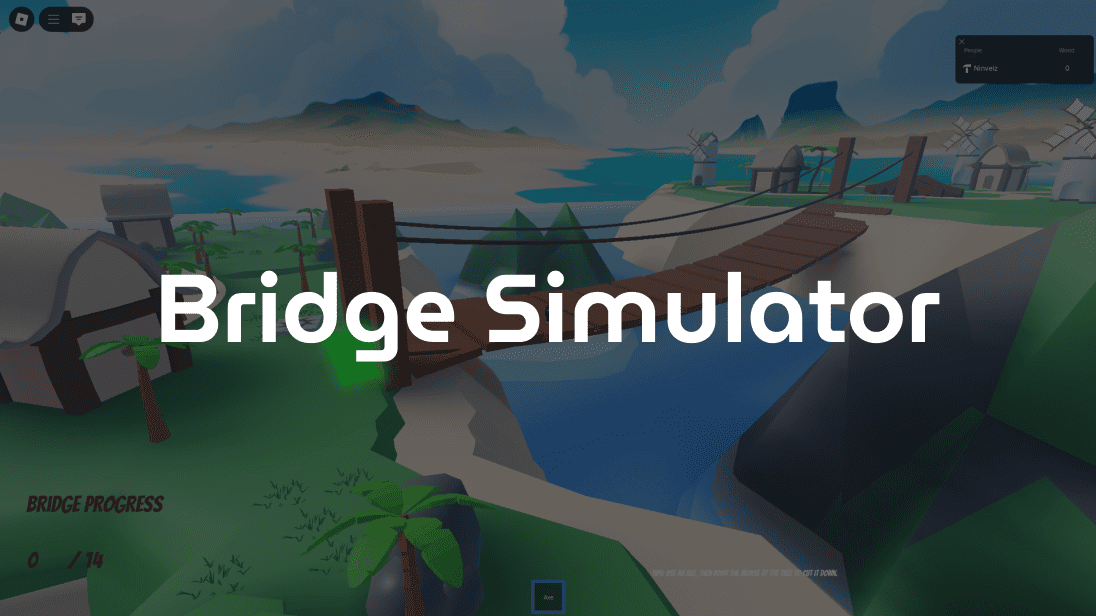
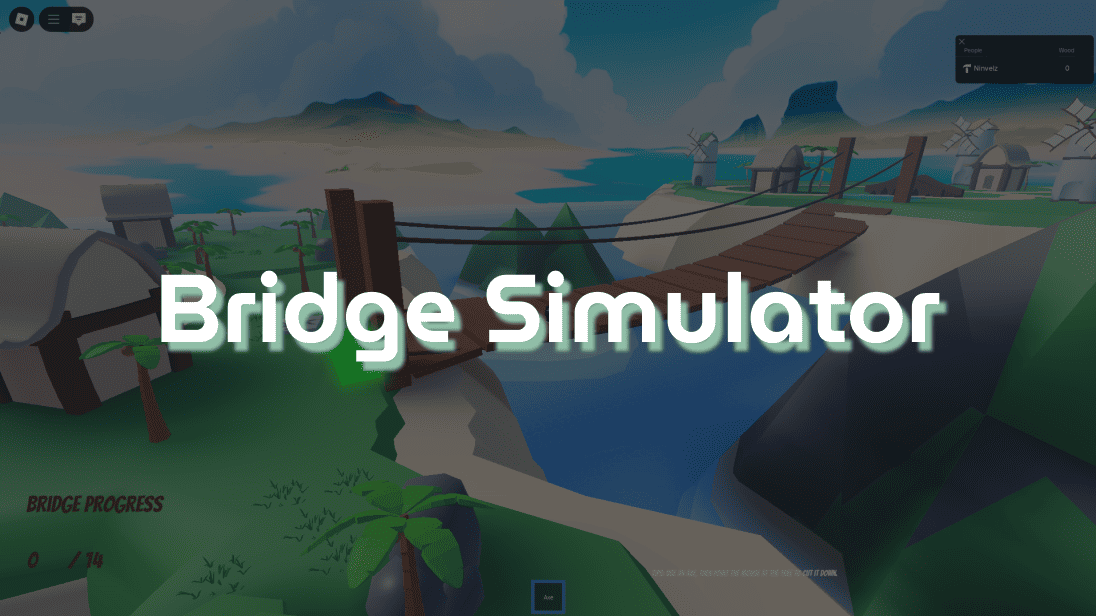
update image + add tag index

diff --git a/index.html b/index.html
@@ -528,6 +528,7 @@
                                         class="card-img-top" alt="game">
                                     <div class="card-body my-2">
                                         <label style="font-size: 20px; font-family: 'font-content';">Fairy Tale : Return of Heroes</label>
+                                        <p><label style="font-size: 20px; font-family: 'font-content';">[UNITY]</label></p>
                                         <!-- <label style="font-size: 20px; font-family: 'font-content';">Unity</label> -->
                                     </div>
                                 </div>
@@ -542,6 +543,7 @@
                                         class="card-img-top" alt="game">
                                     <div class="card-body my-2">
                                         <label style="font-size: 20px; font-family: 'font-content';">SESAT : Tersesat ohhh tersesat </label>
+                                        <p><label style="font-size: 20px; font-family: 'font-content';">[UNITY]</label></p>
                                     </div>
                                 </div>
                             </div>
@@ -555,6 +557,7 @@
                                     class="card-img-top" alt="game">
                                 <div class="card-body my-2">
                                     <label style="font-size: 20px; font-family: 'font-content';">Pentol Golf</label>
+                                    <p><label style="font-size: 20px; font-family: 'font-content';">[UNITY]</label></p>
                                 </div>
                             </div>
                         </div>
@@ -568,6 +571,7 @@
                                         class="card-img-top" alt="game Finding Fungus">
                                     <div class="card-body my-2">
                                         <label style="font-size: 20px; font-family: 'font-content';">GERILYA : DOMINATE NUSANTARA </label>
+                                        <p><label style="font-size: 20px; font-family: 'font-content';">[UNITY]</label></p>
                                         <!-- <p>
                                             <label style="font-size: 20px; font-family: 'font-content';">(WORKSHOP PRODUKSI GAME I)</label>
                                         </p>
@@ -588,6 +592,7 @@
                                     class="card-img-top" alt="game">
                                 <div class="card-body my-2">
                                     <label style="font-size: 20px; font-family: 'font-content';">YUFO : NEW PLANET</label>
+                                    <p><label style="font-size: 20px; font-family: 'font-content';">[UNITY]</label></p>
                                 </div>
                             </div>
                         </div>
@@ -603,6 +608,7 @@
                                     class="card-img-top" alt="game MEMEMORY">
                                 <div class="card-body my-2">
                                     <label style="font-size: 20px; font-family: 'font-content';">MEMEMORY</label>
+                                    <p><label style="font-size: 20px; font-family: 'font-content';">[UNITY]</label></p>
                                 </div>
                             </div>
                         </div>
@@ -618,6 +624,7 @@
                                     class="card-img-top" alt="game Finding Fungus">
                                 <div class="card-body my-2">
                                     <label style="font-size: 20px; font-family: 'font-content';">FINDING FUNGUS : THE MAGICAL MUSHROOM</label>
+                                    <p><label style="font-size: 20px; font-family: 'font-content';">[UNITY]</label></p>
                                     <!-- <p>
                                         <label style="font-size: 20px; font-family: 'font-content';">(WORKSHOP PRODUKSI GAME II)</label>
                                     </p>
@@ -638,6 +645,7 @@
                                     class="card-img-top" alt="game Finding Fungus">
                                 <div class="card-body my-2">
                                     <label style="font-size: 20px; font-family: 'font-content';">Lontong Balap</label>
+                                    <p><label style="font-size: 20px; font-family: 'font-content';">[UNITY]</label></p>
                                     <!-- <p>
                                         <label style="font-size: 20px; font-family: 'font-content';">(RESEARCH VIRTUAL ASSISTANT)</label>
                                     </p>
@@ -658,6 +666,7 @@
                                         class="card-img-top" alt="game Finding Fungus">
                                     <div class="card-body my-2">
                                         <label style="font-size: 20px; font-family: 'font-content';">SPACE 301</label>
+                                        <p><label style="font-size: 20px; font-family: 'font-content';">[UNITY]</label></p>
                                         <!-- <p>
                                             <label style="font-size: 20px; font-family: 'font-content';">(RESEARCH VIRTUAL ASSISTANT)</label>
                                         </p>
@@ -678,6 +687,7 @@
                                         class="card-img-top" alt="game Finding Fungus">
                                     <div class="card-body my-2">
                                         <label style="font-size: 20px; font-family: 'font-content';">Project White</label>
+                                        <p><label style="font-size: 20px; font-family: 'font-content';">[UNITY]</label></p>
                                         <!-- <p>
                                             <label style="font-size: 20px; font-family: 'font-content';">(RESEARCH VIRTUAL ASSISTANT)</label>
                                         </p>
@@ -698,6 +708,7 @@
                                         class="card-img-top" alt="game Finding Fungus">
                                     <div class="card-body my-2">
                                         <label style="font-size: 20px; font-family: 'font-content';">Aventala : The Lost Tribe</label>
+                                        <p><label style="font-size: 20px; font-family: 'font-content';">[UNITY]</label></p>
                                         <!-- <p>
                                             <label style="font-size: 20px; font-family: 'font-content';">(RESEARCH VIRTUAL ASSISTANT)</label>
                                         </p>
@@ -719,6 +730,7 @@
                                         class="card-img-top" alt="game Finding Fungus">
                                     <div class="card-body my-2">
                                         <label style="font-size: 20px; font-family: 'font-content';">ECOSITY : New Dawn On Mars</label>
+                                        <p><label style="font-size: 20px; font-family: 'font-content';">[UNREAL ENGINE]</label></p>
                                         <!-- <p>
                                             <label style="font-size: 20px; font-family: 'font-content';">(RESEARCH VIRTUAL ASSISTANT)</label>
                                         </p>
@@ -759,6 +771,7 @@
                                         class="card-img-top" alt="game Finding Fungus">
                                     <div class="card-body my-2">
                                         <label style="font-size: 20px; font-family: 'font-content';">VR Game : Kadet Soewoko</label>
+                                        <p><label style="font-size: 20px; font-family: 'font-content';">[UNITY]</label></p>
                                         <!-- <p>
                                             <label style="font-size: 20px; font-family: 'font-content';">(RESEARCH VIRTUAL ASSISTANT)</label>
                                         </p>
@@ -774,11 +787,12 @@
                         <a href="bridge.html" class="texthover" >
                             <div class="col-md-6 portfolio-item">
                                 <div class="card p-1 cardwhite" style="background-color: #0D3C52;width: 100%; border-radius: 20px;">
-                                    <img src="assets/img/category/game/kadet/kadet2.png"
+                                    <img src="assets/img/category/game/bridge/bridge2.png"
                                         style="object-position: left; width: 100%; border-radius: 20px;"
                                         class="card-img-top" alt="game Finding Fungus">
                                     <div class="card-body my-2">
-                                        <label style="font-size: 20px; font-family: 'font-content';">The Bridge Simulator</label>
+                                        <label style="font-size: 20px; font-family: 'font-content';">Bridge Simulator</label>
+                                        <p><label style="font-size: 20px; font-family: 'font-content';">[ROBLOX STUDIO]</label></p>
                                         <!-- <p>
                                             <label style="font-size: 20px; font-family: 'font-content';">(RESEARCH VIRTUAL ASSISTANT)</label>
                                         </p>
